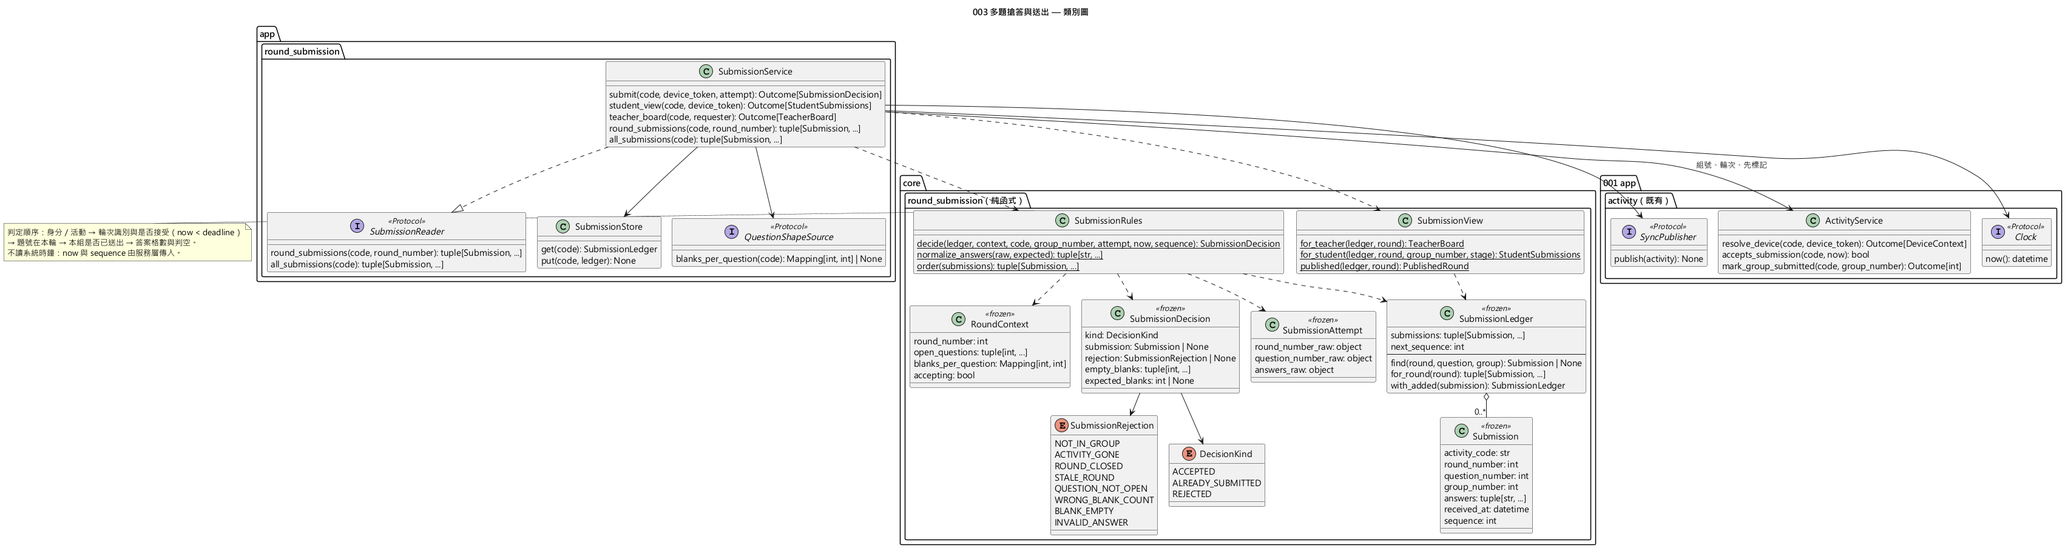
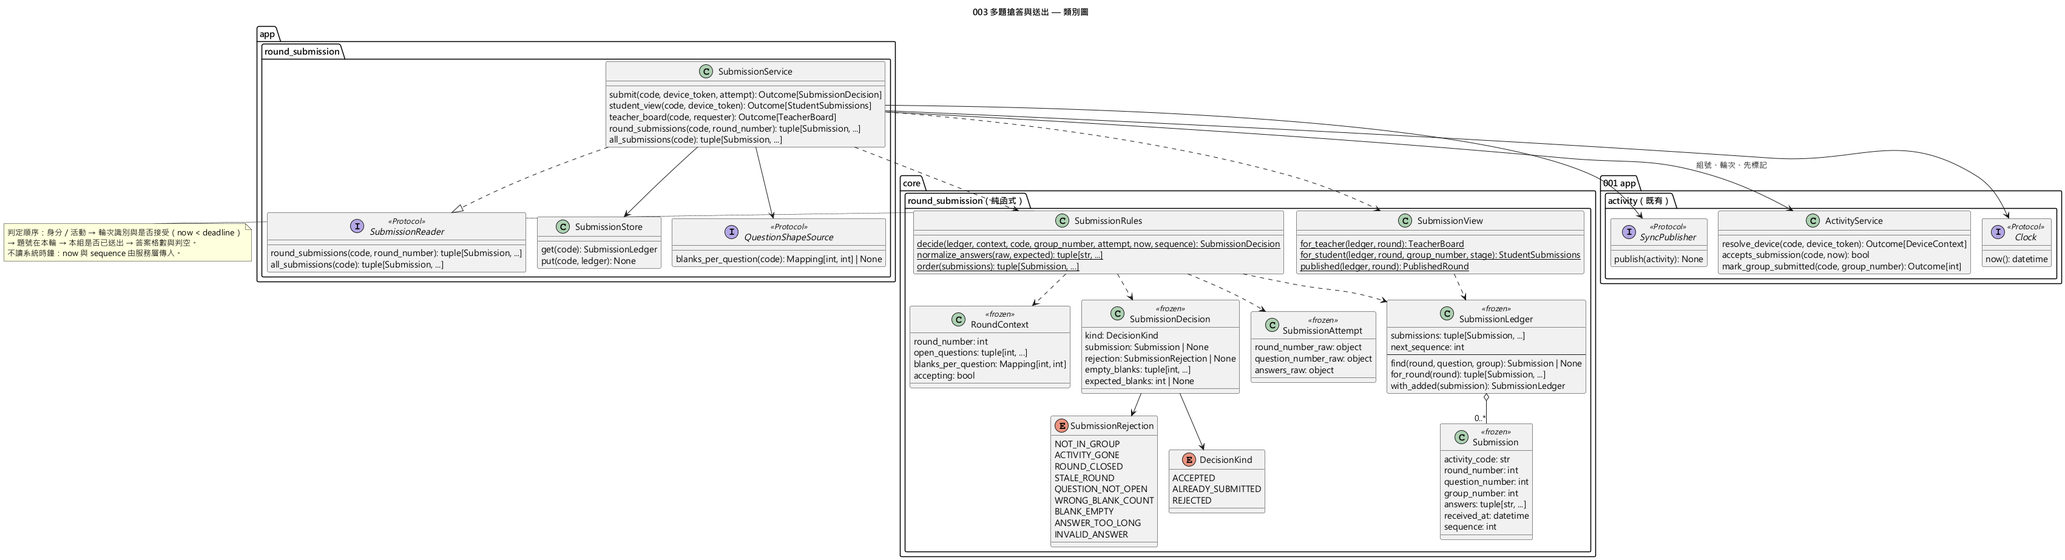
docs: 003 clarify 寫回 Q-20、Q-21、Q-22、Q-26 的 SpecKit 組提議並記入對齊紀錄

diff --git a/specs/003-round-submission/spec.md b/specs/003-round-submission/spec.md
@@ -16,7 +16,7 @@
 |---|---|---|---|
 | 多題作答與題組完整提交 | 不同順序作答 | US1-AS1、US1-AS2、FR-001、FR-002 | 無 |
 | 多題作答與題組完整提交 | 題組少一格 | US1-AS3、FR-003、FR-004、FR-005 | 無 |
-| 多題作答與題組完整提交 | （Requirement 本文：答案以文字保存；缺格、多格、未知題號、非開放題整筆拒絕；不自動判斷正誤） | US1-AS4～US1-AS7、FR-003、FR-004、FR-006 | 答案長度、多行與空白保存待 Q-20 |
+| 多題作答與題組完整提交 | （Requirement 本文：答案以文字保存；缺格、多格、未知題號、非開放題整筆拒絕；不自動判斷正誤） | US1-AS4～US1-AS7、FR-003、FR-004、FR-006 | Q-20 答案長度、多行與空白保存：SpecKit 組提議（alignment.md 2026-11-23），待 OpenSpec 組確認 |
 | 每組每題每輪一次 | 同組兩裝置競爭 | US2-AS1、FR-007、FR-008、FR-009 | 無 |
 | 每組每題每輪一次 | 回應遺失後重送 | US2-AS2、FR-008、FR-010 | 無 |
 | 每組每題每輪一次 | 下一輪重新作答 | US2-AS3、FR-011 | 無 |
@@ -26,9 +26,9 @@
 | 後端截止與接收順序 | 舊輪次頁面提交 | US3-AS4、FR-017 | 無 |
 | 後端截止與接收順序 | 同時間戳 | US3-AS5、FR-016、FR-018 | 無 |
 | 後端截止與接收順序 | （Requirement 本文：手動關輪後到達者亦拒絕；截止、關輪與提交具有一致順序） | US3-AS3、US3-AS6、FR-014、FR-019 | 無 |
-| 搶答中依角色限制資料 | 檢查學生資料回應 | US4-AS1、US4-AS2、US4-AS3、FR-020、FR-021、FR-022 | 學生可見的額外資訊待 Q-22 |
-| 搶答中依角色限制資料 | 老師即時看板 | US4-AS4、US4-AS5、FR-023、FR-024 | 暫估順位待 Q-21 |
-| 關輪公開結果與版本一致 | 結果公布與後續輪次 | US5-AS1、US5-AS3、FR-025、FR-027 | 判錯標記的學生端可見性待 Q-26 |
+| 搶答中依角色限制資料 | 檢查學生資料回應 | US4-AS1、US4-AS2、US4-AS3、FR-020、FR-021、FR-022 | Q-22 學生可見範圍：SpecKit 組提議（alignment.md 2026-11-23），待 OpenSpec 組確認 |
+| 搶答中依角色限制資料 | 老師即時看板 | US4-AS4、US4-AS5、FR-023、FR-024 | Q-21 搶答中不顯示暫估順位：SpecKit 組提議（alignment.md 2026-11-23），待 OpenSpec 組確認 |
+| 關輪公開結果與版本一致 | 結果公布與後續輪次 | US5-AS1、US5-AS3、FR-025、FR-027 | Q-26 學生可見判錯標記、不填原因：SpecKit 組提議（alignment.md 2026-11-23），待 OpenSpec 組確認 |
 | 關輪公開結果與版本一致 | 延遲回應 | US5-AS4、FR-028 | 無 |
 | 關輪公開結果與版本一致 | （Requirement 本文：無人提交及候選皆被判錯的題顯示未成功） | US5-AS2、FR-026 | 無（「候選皆被判錯」的判定由 004 負責） |
 | 倒數與輸入安全顯示 | 特殊文字答案 | US6-AS1、FR-031 | 無 |
@@ -45,8 +45,19 @@
 **與 `docs/alignment.md` 的關係**：
 
 - **已確認並沿用**（2026-11-23，A1～C10）：組別以組號識別（A1），提交歸屬組號；離開本組只能在非搶答中進行，離開後原提交仍屬原組（B4）；有提交紀錄的組別不能刪除（B5）；倒數與公平模式各自獨立、秒數 1～3600（C9）。
-- **仍待 OpenSpec 組確認**（本 spec 以 `[NEEDS CLARIFICATION]` 標記，不自行假設）：Q-20（答案長度、多行、空白保存）、Q-21（搶答中老師看板的暫估順位）、Q-22（搶答中學生可見的額外資訊）、Q-26（判錯標記的學生端可見性）。
+- **SpecKit 組已提議、待 OpenSpec 組確認**（alignment.md 2026-11-23「003 提交待確認事項」列）：Q-20（答案長度、多行、空白保存）、Q-21（搶答中老師看板的暫估順位）、Q-22（搶答中學生可見的額外資訊）、Q-26（判錯標記的學生端可見性）。本 spec 依提議撰寫，相關條文標註「待 OpenSpec 組確認」；**OpenSpec 組確認前不得合併實作**，若對方結論不同，依新結論改寫 spec、圖與測試。
 - **錯誤訊息文字**是否需與 OpenSpec 組一致見 Q-03；本 spec 先要求語意一致。
+
+## Clarifications
+
+### Session 2026-11-23
+
+以下四題為 SpecKit 組提議（jacky0407 2026-11-23 同意），OpenSpec 組確認人：待確認。
+
+- Q: 答案文字有無長度上限？是否允許多行？保存時是否保留首尾空白？（Q-20） → A: 每格上限 500 字；允許多行；只在判斷是否為空時去除首尾空白，保存與顯示都用原文。
+- Q: 搶答進行中，老師看板是否要即時顯示暫估順位？（Q-21） → A: 不顯示；只顯示各組送出先後（接收時間與序號）。順位在關輪後由 004 計算。
+- Q: 搶答期間學生能否看到本輪開放題與本組提交以外的資訊，例如本組成功次數或排名？（Q-22） → A: 不能；只看本輪開放題（含子空格數）與本組的提交狀態、答案與送出時間，不顯示成功次數或排名。
+- Q: 學生端是否看得到哪一筆被判錯？判錯是否需填寫原因？（Q-26） → A: 關輪公開後學生看得到判錯標記；判錯不需要填寫原因。
 
 ## Diagrams *(mandatory — 憲章原則 II)*
 
@@ -132,9 +143,9 @@
 
 1. **Given** 本輪開放中且乙組已提交題 1，**When** 甲組查詢狀態或嘗試直接取得乙組的提交，**Then** 系統不提供乙組本輪的答案、提交狀態、時間或任何可推知其進度的統計（例如已提交組數、答案分布）。
 2. **Given** 本輪開放中，**When** 乙組完成一筆有效提交，**Then** 甲組的裝置不收到任何推送，狀態版本與變更時間也不改變。
-3. **Given** 本輪開放中，**When** 甲組任一裝置查看，**Then** 可看到本輪開放的題目、每題子空格數、本組每題是否已送出、本組已送答案與送出時間。[NEEDS CLARIFICATION: Q-22 搶答期間學生能否看到「本輪開放題目與本組提交」以外的資訊，例如本組在歷史輪次的成功次數或排名？]
+3. **Given** 本輪開放中，**When** 甲組任一裝置查看，**Then** 可看到本輪開放的題目、每題子空格數、本組每題是否已送出、本組已送答案與送出時間；看不到本組成功次數或排名（Q-22，SpecKit 組提議，待 OpenSpec 組確認）。
 4. **Given** 本輪開放中，**When** 任一組完成有效提交，**Then** 老師看板在 2 秒內顯示該組該題「已送出」、各格答案與接收時間；沒有提交的格子顯示「尚未送出」。
-5. **Given** 本輪開放中有多組已提交同一題，**When** 老師查看看板，**Then** 老師可看到該題各組提交的先後（依接收時間與序號）。[NEEDS CLARIFICATION: Q-21 搶答進行中，老師看板是否要即時顯示暫估順位（含公平模式，並標示「未定案」），還是只顯示送出先後？]
+5. **Given** 本輪開放中有多組已提交同一題，**When** 老師查看看板，**Then** 老師可看到該題各組提交的先後（依接收時間與序號），看板不顯示暫估順位（Q-21，SpecKit 組提議，待 OpenSpec 組確認）。
 6. **Given** 甲組有兩台裝置，**When** 其中一台完成提交，**Then** 另一台在 2 秒內顯示本組該題已送出及答案。
 
 ---
@@ -153,7 +164,7 @@
 2. **Given** 第 1 輪關閉時題 3 沒有任何組提交，**When** 結果公開，**Then** 題 3 顯示「未成功」；若題目的所有候選都被判錯，同樣顯示「未成功」（判錯由 004 負責）。
 3. **Given** 第 1 輪已公布並定案，第 2 輪已開始且乙組已提交，**When** 甲組查看，**Then** 甲組仍可檢視第 1 輪的公開紀錄，但取得不到乙組第 2 輪的任何作答狀況。
 4. **Given** 頁面已顯示第 1 輪的公開結果，**When** 一個「第 1 輪搶答中」的舊狀態回應晚於結果抵達，**Then** 頁面保留較新的結果，不退回搶答中，也不顯示舊的內容。
-5. **Given** 第 1 輪已公開結果，**When** 004 標記某筆提交為判錯，**Then** 老師看板顯示判錯標記。[NEEDS CLARIFICATION: Q-26 學生端是否也看得到哪一筆被判錯（以及判錯是否需填寫原因）？]
+5. **Given** 第 1 輪已公開結果，**When** 004 標記某筆提交為判錯，**Then** 老師看板與所有學生頁面都顯示該筆的判錯標記，不顯示原因（判錯不需填寫原因）（Q-26，SpecKit 組提議，待 OpenSpec 組確認）。
 
 ---
 
@@ -185,7 +196,7 @@
 - **已成功的題目**：本輪不開放已成功題（001 開輪規則），因此對已成功題的提交與「非本輪開放題」同樣處理。
 - **同組第一筆提交與刪除組別同時發生**：見 US2-AS7。
 - **題組子空格順序**：答案依子空格編號（第 1 格、第 2 格……）對應，不依送出順序猜測。
-- **答案極長、含換行或前後空白**：[NEEDS CLARIFICATION: Q-20 答案文字有無長度上限？是否允許多行？保存時是否保留原始首尾空白（只在判空時去除），還是保存時也去除？]
+- **答案極長、含換行或前後空白**（Q-20，SpecKit 組提議，待 OpenSpec 組確認）：任一格超過 500 字時整筆拒絕並說明「第 n 格超過 500 字」，不消耗機會；換行允許；首尾空白只用來判斷是否為空，保存與顯示都用原文。字數以字元計（中文一字算一字）。
 - **重送與網路重試**：同一請求重送不得產生重複提交（US2-AS2）；不同裝置的後續送出也不得覆蓋（US2-AS1）。
 - **輸入驗證失敗時（憲章原則 V）**：題號、輪次識別、答案格數、空白格、答案型別（非文字）等不合法時，整筆拒絕，不保存任何一格、不消耗機會、不改變任何狀態版本；錯誤訊息指出可修正的原因（哪一格未填、這題需要幾格、該題不在本輪、輪次已更新請重新整理、本輪已結束），且不包含堆疊追蹤、檔案路徑、token、憑證或他組資料。
 - **兩份版面學習單（憲章原則 III）**：子空格數一律依 002 的成功匯入結果，不假設固定格數或固定題數；以兩份版面不同的學習單（例如題組格數不同、起始列欄不同）匯入後，提交的格數檢查都依各自的匯入結果正確運作。
@@ -198,8 +209,8 @@
 
 - **FR-001**: 系統 MUST 允許已加入組別的學生裝置，在本輪開放期間依任意順序提交本輪開放題目中的任一題，MUST NOT 要求依題號順序作答。
 - **FR-002**: 一筆提交 MUST 對應一個題目，並包含該題全部子空格的答案；單題視為一格。每題的子空格數 MUST 依 002 成功匯入結果取得，MUST NOT 寫死格數或題數（憲章原則 III）。
-- **FR-003**: 系統 MUST 以文字保存答案。判斷是否為空時，MUST 去除首尾空白（含全形空白、Tab、換行）後判斷；任一格為空、缺格、多格、答案不是文字、未知題號或非本輪開放題，MUST 整筆拒絕。答案長度上限、是否允許多行、保存時是否保留首尾空白見 Q-20。[NEEDS CLARIFICATION: Q-20]
-- **FR-004**: 題組缺漏時，拒絕訊息 MUST 指出缺漏的是第幾格；格數不符時 MUST 說明該題需要幾格；題號不在本輪時 MUST 說明該題不在本輪開放範圍。
+- **FR-003**: 系統 MUST 以文字保存答案。判斷是否為空時，MUST 去除首尾空白（含全形空白、Tab、換行）後判斷；任一格為空、任一格超過 500 字、缺格、多格、答案不是文字、未知題號或非本輪開放題，MUST 整筆拒絕。答案 MUST 允許多行；保存與顯示 MUST 使用原文，MUST NOT 去除首尾空白或換行（Q-20，SpecKit 組提議，待 OpenSpec 組確認）。
+- **FR-004**: 題組缺漏時，拒絕訊息 MUST 指出缺漏的是第幾格；超過字數時 MUST 指出是第幾格超過 500 字；格數不符時 MUST 說明該題需要幾格；題號不在本輪時 MUST 說明該題不在本輪開放範圍。
 - **FR-005**: 被拒絕的提交 MUST NOT 保存任何一格、MUST NOT 消耗該組本輪該題的提交機會，也 MUST NOT 改變任何狀態版本或推送給任何人。
 - **FR-006**: 系統 MUST NOT 自動判斷答案正誤；正誤由老師在 004 判定。
 
@@ -225,14 +236,14 @@
 
 **搶答中依角色限制資料**
 
-- **FR-021**: 本輪開放期間，學生可取得的任何頁面、回應與推送 MUST 只包含本輪開放的題目、每題子空格數，以及本組的提交狀態、答案與接收時間；MUST NOT 包含他組本輪的答案、提交狀態、接收時間、提交數量、順位、答案分布或任何可推知其進度的統計。[NEEDS CLARIFICATION: Q-22 學生能否另外看到本組歷史成功次數或排名等資訊？]
+- **FR-021**: 本輪開放期間，學生可取得的任何頁面、回應與推送 MUST 只包含本輪開放的題目、每題子空格數，以及本組的提交狀態、答案與接收時間；MUST NOT 包含他組本輪的答案、提交狀態、接收時間、提交數量、順位、答案分布或任何可推知其進度的統計；也 MUST NOT 包含本組或他組的成功次數與排名（Q-22，SpecKit 組提議，待 OpenSpec 組確認）。
 - **FR-022**: 他組在本輪的任何提交 MUST NOT 讓本組裝置收到推送，也 MUST NOT 改變本組可見的狀態版本或變更時間（沿用 001 FR-030）。學生直接嘗試取得他組提交時 MUST 被拒絕，且拒絕回應 MUST NOT 透露該組是否已提交。
 - **FR-023**: 老師看板 MUST 顯示每組每題本輪的提交狀態（已送出／尚未送出）、各格答案、接收時間與提交先後，並在有效提交被接受後 2 秒內更新（正常本機連線、頁面於前景）。
-- **FR-024**: 老師看板在搶答中是否顯示暫估順位（並標示「未定案」）見 Q-21；在 Q-21 確認前，老師看板只顯示提交先後，不顯示順位。[NEEDS CLARIFICATION: Q-21]
+- **FR-024**: 搶答進行中，老師看板 MUST 只顯示各題各組的提交先後，MUST NOT 顯示暫估順位或暫定勝者；順位在關輪後由 004 計算並標示「未定案」（Q-21，SpecKit 組提議，待 OpenSpec 組確認）。
 
 **關輪公開結果與版本一致**
 
-- **FR-025**: 本輪關閉後，系統 MUST 向老師與所有學生公開本輪各題各組的有效提交、答案與提交先後，並提供給 004 計算候選順位、暫定勝者與判錯標記。判錯標記在學生端是否可見見 Q-26。[NEEDS CLARIFICATION: Q-26]
+- **FR-025**: 本輪關閉後，系統 MUST 向老師與所有學生公開本輪各題各組的有效提交、答案與提交先後，並提供給 004 計算候選順位、暫定勝者與判錯標記。004 產生的判錯標記 MUST 同時呈現給老師與所有學生；判錯不需要原因，頁面 MUST NOT 要求或顯示判錯原因（Q-26，SpecKit 組提議，待 OpenSpec 組確認）。
 - **FR-026**: 本輪沒有任何有效提交的題目 MUST 顯示「未成功」；所有候選都被判錯的題目也 MUST 顯示「未成功」（判錯由 004 判定）。
 - **FR-027**: 已公開輪次的紀錄 MUST 在之後的輪次中仍可供學生檢視；新一輪開放期間，MUST NOT 因歷史輪次可查而洩漏新一輪他組的任何作答資料。
 - **FR-028**: 頁面 MUST 依狀態版本保留較新的狀態；較舊的回應或推送晚到時，MUST NOT 覆蓋較新的結果，MUST NOT 退回搶答中或舊的內容（沿用 001 FR-027）。
@@ -255,7 +266,7 @@
 
 - **提交（Submission）**：一組在某一輪對某一題的第一筆有效答案。屬性：活動代碼、輪次編號、題號、組號、各子空格答案（依子空格編號排列）、後端接收時間、接收序號。建立後不可修改；不包含裝置 token。
 - **提交嘗試（Submission Attempt）**：學生送出的原始內容：輪次識別、題號、各格答案。只用於判定，被拒時不保存。
-- **提交判定結果（Submission Decision）**：接受（含新提交）、本組已送出（含既有提交）、或拒絕（含可修正的原因，例如第幾格未填、這題需要幾格、該題不在本輪、輪次已更新、本輪已結束、未加入組別、活動已失效）。
+- **提交判定結果（Submission Decision）**：接受（含新提交）、本組已送出（含既有提交）、或拒絕（含可修正的原因，例如第幾格未填、第幾格超過 500 字、這題需要幾格、該題不在本輪、輪次已更新、本輪已結束、未加入組別、活動已失效）。
 - **輪次提交紀錄（Round Submissions）**：某活動某一輪的全部提交，依（接收時間、接收序號）排序；本輪開放時依角色裁切：老師看全部，學生只看本組；關輪後公開。
 - **題目結構（Question Shape）**：每題的題號與子空格數，來自 002 的成功匯入結果；本輪開放題的集合來自 001 的開輪規則。
 
@@ -269,7 +280,7 @@
 - **SC-004**: 截止邊界測試中，接收時間早於截止 1 毫秒者 100% 被接受，恰於截止與晚於截止者 100% 被拒絕；「關輪與提交同時發生」重複 50 次，結果公開後才加入的提交數為 0。
 - **SC-005**: 搶答期間，學生頁面收到的所有回應與推送中，含有他組本輪答案、提交狀態、時間、數量或順位的次數為 0；他組提交時本組收到推送的次數為 0。
 - **SC-006**: 老師加上 6 組、每組 2 條連線同時在線時，有效提交被接受後 2 秒內出現在老師看板與同組另一台裝置；連續 20 次全部達成。
-- **SC-007**: 所有不合法提交（空格、缺格、多格、未知題號、非本輪題、舊輪次、截止後、非組員）的測試中，被保存的格數為 0、被消耗的機會為 0，錯誤訊息 100% 指出可修正的原因，出現堆疊追蹤、檔案路徑、token 或他組資料的次數為 0。
+- **SC-007**: 所有不合法提交（空格、超過 500 字、缺格、多格、未知題號、非本輪題、舊輪次、截止後、非組員）的測試中，被保存的格數為 0、被消耗的機會為 0，錯誤訊息 100% 指出可修正的原因，出現堆疊追蹤、檔案路徑、token 或他組資料的次數為 0。
 - **SC-008**: 含 HTML 標記與腳本的答案在老師看板、學生頁、結果頁顯示時，腳本被執行的次數為 0，原文字 100% 完整呈現。
 - **SC-009**: 以兩份版面不同的學習單（子空格配置不同）各自匯入後，提交的格數檢查 100% 依該學習單的匯入結果判定。
 - **SC-010**: 學生在 30 秒內可完成一題兩格題組的作答與送出，並在送出後立即看到本組已送出的確認。
@@ -279,7 +290,7 @@
 - 001-activity-session 已提供本子功能需要的介面：依裝置身分判定組號與目前輪次（含本輪開放題與截止時間）、判斷目前是否接受提交、標記組別已有提交紀錄（見 001 的 `contracts/service-interfaces.md`）。開輪、關輪、倒數排程與階段轉移都由 001 負責。
 - 002-guided-notes-import 成功匯入後，能提供每題的子空格數（002 的匯入預覽已有每題格數）；003 需要的取得方式會在 003 plan 與 002 協調並寫入雙方契約。
 - 本輪開放題在開輪時固定（001 規則快照），重新匯入只能在準備中進行，因此搶答期間每題子空格數不會改變。
-- 「去除首尾空白」包含半形空白、全形空白、Tab 與換行；這只是判斷是否為空的規則，保存時是否保留空白待 Q-20。
+- 「去除首尾空白」包含半形空白、全形空白、Tab 與換行；這只是判斷是否為空的規則，保存時保留原文（Q-20）。
 - 「本組已送出」與「原提交已存在」兩種情境回覆相同語意的訊息（皆附既有答案），因為對學生而言兩者的下一步相同；文字是否需與 OpenSpec 組一致見 Q-03。
 - 錯誤判斷順序：先檢查身分與活動狀態，再檢查輪次識別與是否仍開放／未截止，再檢查題號是否在本輪，再檢查本組是否已送出，最後檢查答案內容；因此「已送出後再送無效內容」回覆「本組已送出」（US2-AS4）。
 - 接收序號只用於排序，不顯示給學生。

diff --git a/docs/alignment.md b/docs/alignment.md
@@ -7,6 +7,7 @@
 | 日期 | 議題 | 結論 | 影響範圍 | SpecKit 組確認人 | OpenSpec 組確認人 |
 |---|---|---|---|---|---|
 | 2026-11-20 | 行為基準、技術棧與子功能對應 | 採用 OpenSpec 組 5 份 spec 為行為基準；SpecKit 組技術棧為 Python/FastAPI（課程不要求技術一致）；SpecKit 子功能與 OpenSpec 能力一對一對應（001-activity-session、002-guided-notes-import、003-round-submission、004-ranking-review、005-result-export） | 憲章 v1.0.0；全部子功能 spec／plan／tasks | jacky0407、EricC430（以 Issue #3 對應 PR 的審查核准為準） | 待確認 |
+| 2026-11-23 | 003 提交待確認事項（Q-20、Q-21、Q-22、Q-26） | SpecKit 組提議：**Q-20** 答案每格上限 500 字、允許多行，只在判斷是否為空時去除首尾空白，保存與顯示都用原文。**Q-21** 搶答進行中老師看板只顯示各組送出先後，不顯示暫估順位；順位在關輪後由 004 計算並標示未定案。**Q-22** 搶答中學生只看得到本輪開放題（含子空格數）與本組的提交狀態、答案、送出時間，不顯示成功次數或排名。**Q-26** 關輪公開後學生也看得到判錯標記；判錯不需填寫原因。**OpenSpec 組確認前不得合併實作** | 003 spec（FR-003、FR-004、FR-021、FR-024、FR-025、US4、US5）；004 看板與判錯；005 CSV 答案欄 | jacky0407（2026-11-23） | 待確認 |
 
 新增紀錄時於表格末端追加一列；結論變更時新增一列說明取代哪一筆，不改寫舊紀錄。
 
@@ -52,9 +53,9 @@
 
 | 編號 | 來源 Requirement | 問題 | 影響子功能 |
 |---|---|---|---|
-| Q-20 | 多題作答與題組完整提交 | 答案文字有無長度上限？是否允許多行（含換行）答案？送出前是否保留原始空白（只在判空時去首尾空白，還是保存時也去除）？ | 003、005 |
-| Q-21 | 搶答中依角色限制資料 | 老師看板「暫估順位 SHALL 標示未定案」：搶答進行中是否就要即時計算暫估順位（含公平模式）？還是只顯示送出先後？ | 003、004 |
-| Q-22 | 搶答中依角色限制資料 | 搶答期間學生能否知道「本輪有幾題開放」以外的資訊，例如自己組在歷史輪次的成功次數或排名？ | 003、004 |
+| Q-20 | 多題作答與題組完整提交 | 答案文字有無長度上限？是否允許多行（含換行）答案？送出前是否保留原始空白（只在判空時去首尾空白，還是保存時也去除）？ **（SpecKit 組 2026-11-23 已提議，見決議紀錄，待 OpenSpec 組確認）** | 003、005 |
+| Q-21 | 搶答中依角色限制資料 | 老師看板「暫估順位 SHALL 標示未定案」：搶答進行中是否就要即時計算暫估順位（含公平模式）？還是只顯示送出先後？ **（SpecKit 組 2026-11-23 已提議，見決議紀錄，待 OpenSpec 組確認）** | 003、004 |
+| Q-22 | 搶答中依角色限制資料 | 搶答期間學生能否知道「本輪有幾題開放」以外的資訊，例如自己組在歷史輪次的成功次數或排名？ **（SpecKit 組 2026-11-23 已提議，見決議紀錄，待 OpenSpec 組確認）** | 003、004 |
 
 ### ranking-review（004）
 
@@ -63,7 +64,7 @@
 | Q-23 | 老師確認定案與歷史鎖定 ↔ activity-session「開輪條件與規則快照」 | **可能衝突**：activity-session 規定模式在開輪時固定、拒絕修改進行中輪次規則；ranking-review 卻寫「定案後拒絕…模式變更」，暗示結果階段（定案前）可以變更公平／速度模式並重算。結果階段是否允許切換模式？ | 001、004 |
 | Q-24 | 速度模式順位／公平模式順位 | 公平模式的「目前成功次數」是否包含本輪中處理順序較前的題目所產生的暫算次數（spec 範例看起來是包含），請確認。 | 004 |
 | Q-25 | 整輪重算與受影響題目 | 「向學生呈現受影響題目的新順位及勝者」：學生端需要明確標示「結果已更新」或「受影響」嗎？還是只要更新顯示內容？ | 004 |
-| Q-26 | 判錯及撤銷判錯 | 判錯是否需要填寫原因？學生端能否看到哪筆被判錯？（round-submission 說關輪後公開「判錯標記」，請確認學生端也可見。） | 003、004 |
+| Q-26 | 判錯及撤銷判錯 | 判錯是否需要填寫原因？學生端能否看到哪筆被判錯？（round-submission 說關輪後公開「判錯標記」，請確認學生端也可見。） **（SpecKit 組 2026-11-23 已提議，見決議紀錄，待 OpenSpec 組確認）** | 003、004 |
 
 ### result-export（005）
 

diff --git a/specs/003-round-submission/checklists/requirements.md b/specs/003-round-submission/checklists/requirements.md
@@ -13,7 +13,7 @@
 
 ## Requirement Completeness
 
-- [ ] No [NEEDS CLARIFICATION] markers remain
+- [x] No [NEEDS CLARIFICATION] markers remain
 - [x] Requirements are testable and unambiguous
 - [x] Success criteria are measurable
 - [x] Success criteria are technology-agnostic (no implementation details)
@@ -32,7 +32,7 @@
 ## Notes
 
 - 驗證日期 2026-11-23（第 1 次即通過，除下列項目）。
-- **[NEEDS CLARIFICATION] 仍有 4 項**：Q-20（答案長度、多行、空白保存）、Q-21（搶答中老師看板暫估順位）、Q-22（搶答中學生可見的額外資訊）、Q-26（判錯標記學生端可見性）。這四項依 `docs/alignment.md` 屬於「待與 OpenSpec 組確認」，依 CLAUDE.md 規定必須標記並引用編號、不得自行假設，因此超過 Spec Kit 預設的 3 項上限。確認後移入 alignment.md 決議紀錄，再以 `/speckit-clarify` 寫回 spec。
+- **[NEEDS CLARIFICATION] 已清除（2026-11-23 `/speckit-clarify`）**：Q-20、Q-21、Q-22、Q-26 依 SpecKit 組提議寫回 spec（jacky0407 同意），並記入 `docs/alignment.md` 決議紀錄，OpenSpec 組確認人仍為「待確認」。spec 相關條文都標註「待 OpenSpec 組確認」；**確認前不得合併實作**，對方結論不同時改寫 spec、圖與測試。
 - FR-013 提到「先向 001 標記」、Assumptions 提到 001 的 `contracts/service-interfaces.md`，屬於跨子功能的依賴說明，不是實作細節。
 - 002 目前的契約（PR #11）沒有直接提供「每題子空格數」給 003；需在 003 plan 與 002 協調（見 Assumptions）。
 - 圖表（組件、類別、時序）已產出並轉出 PNG；類別圖的型別名稱是給 plan 的藍圖，spec 本文不依賴它們。
